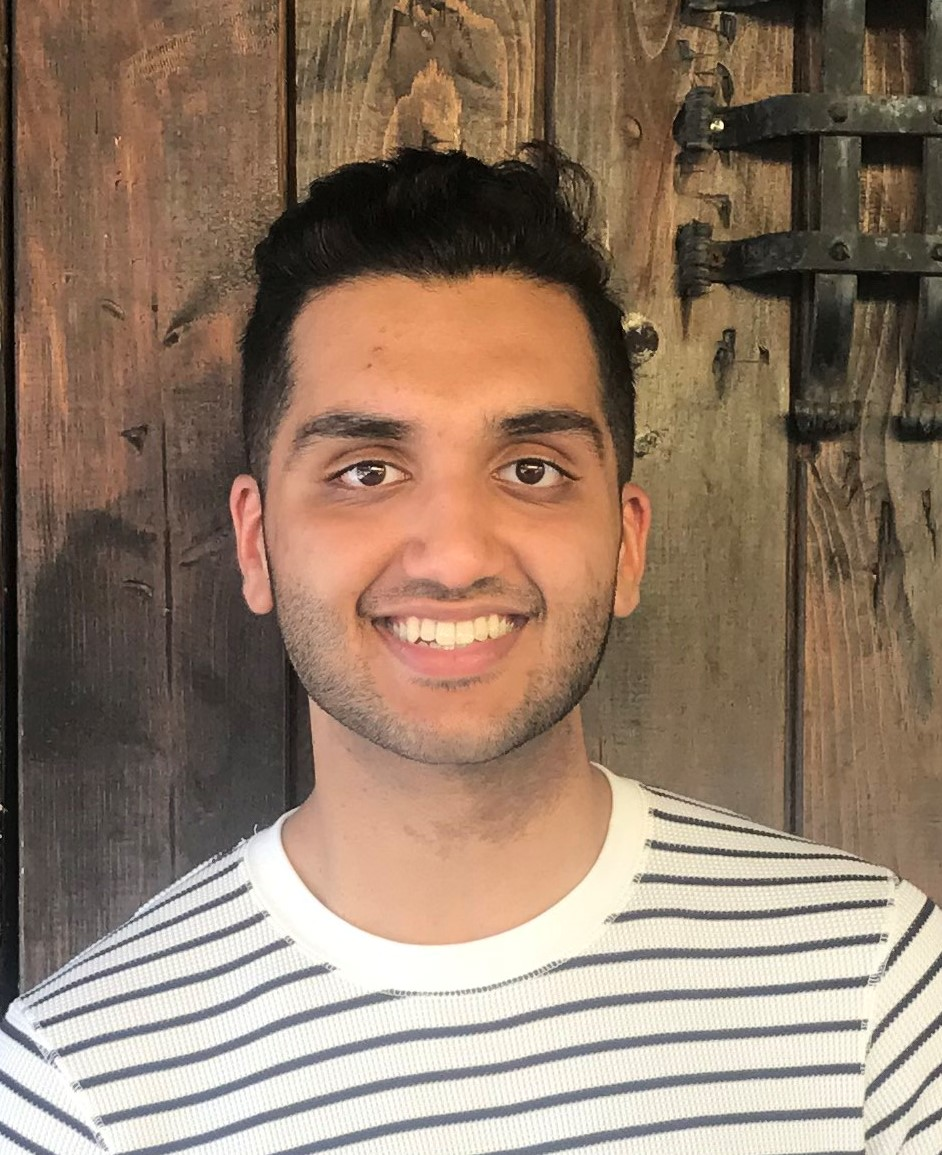
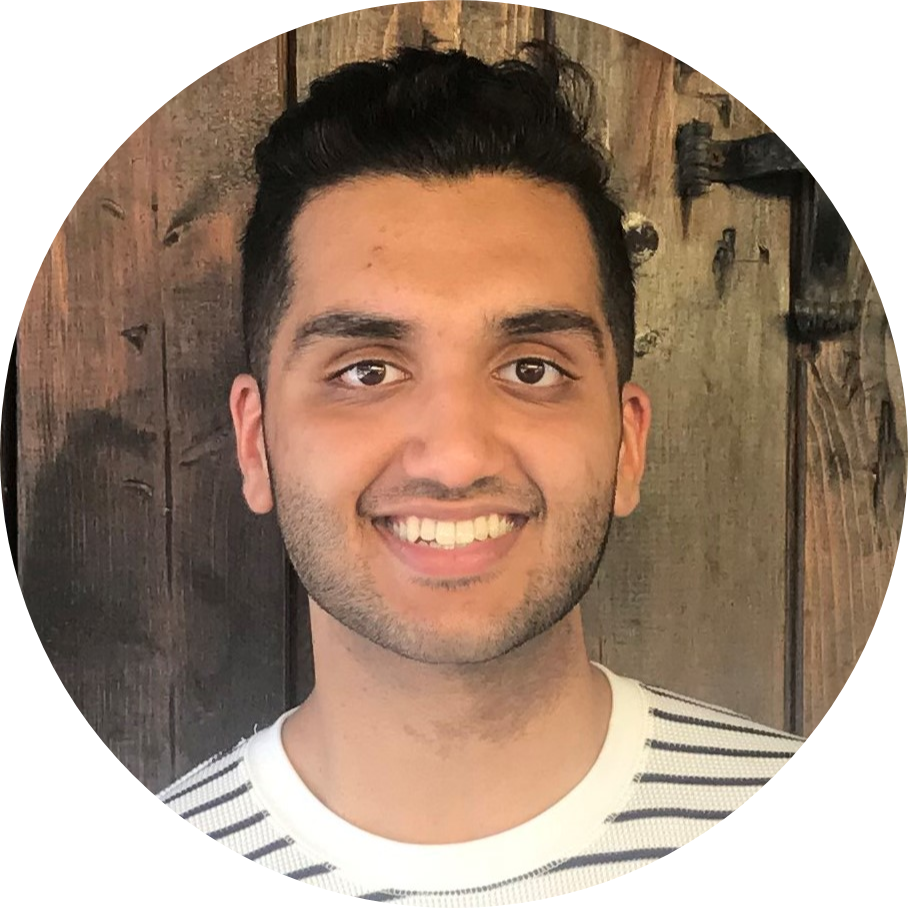
organize cards under src/views/cards

diff --git a/src/views/cards/EducationCard.jsx b/src/views/cards/EducationCard.jsx
@@ -1,7 +1,7 @@
 import React from 'react';
 import { createUseStyles } from 'react-jss'
 import classNames from 'classnames'
-import Experience from './Experience'
+import Education from '../Education'
 
 const useStyles = createUseStyles({
   cardContainer: {
@@ -10,7 +10,7 @@ const useStyles = createUseStyles({
     justifyContent: 'center',
     alignItems: 'center',
     width: '100%',
-    backgroundColor: '#BBBBBB',
+    backgroundColor: '#CC767A',
   },
   contentContainer: {
     display: 'flex',
@@ -48,16 +48,16 @@ const useStyles = createUseStyles({
     backgroundColor: '#333333',
   },
   darkModeBackground: {
-    backgroundColor: '#333333',
+    backgroundColor: '#000000',
   },
   darkModeText: {
     color: '#CCCCCC',
   },
   darkModeHline: {
-    backgroundColor: '#000000',
+    backgroundColor: '#333333',
   },
   lightModeBackground: {
-    backgroundColor: '#FFFFFF',
+    backgroundColor: '#C6C6C6',
   },
   lightModeText: {
     color: '#333333',
@@ -68,22 +68,23 @@ const useStyles = createUseStyles({
 });
 
 
-function ExperienceCard(props) {
+function EducationCard(props) {
   const { darkMode, lightMode } = props;
 
   const classes = useStyles();
 
-  const googleBullets = ['Core Team'];
-  const googleSkills = ['Coming', 'Soon'];
-
-  const amazonBullets = ['Team Placement TBD'];
-  const amazonSkills = ['Coming', 'Soon'];
-
-  const honeyBullets = ['Droplist Team'];
-  const honeySkills = ['Javascript', 'React', 'Node.js', 'Google Cloud Platform', 'Kubernetes', 'Docker', 'CircleCI', 'GraphQL', 'BigQuery', 'BigTable', 'Sendgrid'];
-
-  const dsgBullets = ['Checkout Team'];
-  const dsgSkills = ['Java', 'TypeScript', 'Angular', 'Spring Boot', 'Postman', 'REST APIs', 'JIRA', 'Redis', 'Agile', 'Pivitol Cloud Foundry'];
+  const rutgersCoursework = [
+    'Data Structures and Algorithms',
+    'Databases and Info Management',
+    'Design and Analysis of Algorithms',
+    'Computer Architecture',
+    'Linear Algebra',
+    'Mathematical Theory of Probability',
+    'Elementary Differential Equations',
+    'Multivariable Calculus',
+    'Discrete Structures',
+  ];
+  const rutgersSkills = ['Java', 'C', 'SQL', 'Maple'];
 
   const spacingBetweenExperience = (
     <React.Fragment>
@@ -97,52 +98,17 @@ function ExperienceCard(props) {
       <div className={ classes.spacingContainerTopBottom } />
       <div className={ classes.contentContainer }>
         <div className={ classNames(classes.textTitle, darkMode ? classes.darkModeText : null, lightMode ? classes.lightModeText : null) }>
-          Experience
+          Education
         </div>
       </div>
-{ /*
+
       { spacingBetweenExperience }
-        <Experience
-          companyName='Google'
-          startDate='April 2020'
-          endDate='June 2020'
-          location='Sunnyvale, CA'
-          bullets={ googleBullets }
-          skills={ googleSkills }
-          darkMode={ darkMode }
-          lightMode={ lightMode }
-        />
-        { spacingBetweenExperience }
-        <Experience
-          companyName='Amazon'
-          startDate='June 2020'
-          endDate='September 2020'
-          location='Seattle, WA'
-          bullets={ amazonBullets }
-          skills={ amazonSkills }
-          darkMode={ darkMode }
-          lightMode={ lightMode }
-        />
-*/}
-        { spacingBetweenExperience }
-        <Experience
-          companyName='Honey'
-          startDate='January 2020'
-          endDate='April 2020'
-          location='Los Angeles, CA'
-          bullets={ honeyBullets }
-          skills={ honeySkills }
-          darkMode={ darkMode }
-          lightMode={ lightMode }
-        />
-        { spacingBetweenExperience }
-        <Experience
-          companyName='DICK&apos;S Sporting Goods'
-          startDate='May 2019'
-          endDate='August 2019'
-          location='Pittsburgh, PA'
-          bullets={ dsgBullets }
-          skills={ dsgSkills }
+        <Education
+          schoolName='Rutgers University'
+          graduationDate='May 2021'
+          location='New Brunswick, NJ'
+          bullets={ rutgersCoursework }
+          skills={ rutgersSkills }
           darkMode={ darkMode }
           lightMode={ lightMode }
         />
@@ -153,4 +119,4 @@ function ExperienceCard(props) {
   );
 }
 
-export default ExperienceCard;
+export default EducationCard;

diff --git a/src/views/cards/ExperienceCard.jsx b/src/views/cards/ExperienceCard.jsx
@@ -1,7 +1,7 @@
 import React from 'react';
 import { createUseStyles } from 'react-jss'
 import classNames from 'classnames'
-import Education from './Education'
+import Experience from '../Experience'
 
 const useStyles = createUseStyles({
   cardContainer: {
@@ -10,7 +10,7 @@ const useStyles = createUseStyles({
     justifyContent: 'center',
     alignItems: 'center',
     width: '100%',
-    backgroundColor: '#CC767A',
+    backgroundColor: '#BBBBBB',
   },
   contentContainer: {
     display: 'flex',
@@ -48,16 +48,16 @@ const useStyles = createUseStyles({
     backgroundColor: '#333333',
   },
   darkModeBackground: {
-    backgroundColor: '#000000',
+    backgroundColor: '#333333',
   },
   darkModeText: {
     color: '#CCCCCC',
   },
   darkModeHline: {
-    backgroundColor: '#333333',
+    backgroundColor: '#000000',
   },
   lightModeBackground: {
-    backgroundColor: '#C6C6C6',
+    backgroundColor: '#FFFFFF',
   },
   lightModeText: {
     color: '#333333',
@@ -68,23 +68,22 @@ const useStyles = createUseStyles({
 });
 
 
-function EducationCard(props) {
+function ExperienceCard(props) {
   const { darkMode, lightMode } = props;
 
   const classes = useStyles();
 
-  const rutgersCoursework = [
-    'Data Structures and Algorithms',
-    'Databases and Info Management',
-    'Design and Analysis of Algorithms',
-    'Computer Architecture',
-    'Linear Algebra',
-    'Mathematical Theory of Probability',
-    'Elementary Differential Equations',
-    'Multivariable Calculus',
-    'Discrete Structures',
-  ];
-  const rutgersSkills = ['Java', 'C', 'SQL', 'Maple'];
+  const googleBullets = ['Core Team'];
+  const googleSkills = ['Coming', 'Soon'];
+
+  const amazonBullets = ['Team Placement TBD'];
+  const amazonSkills = ['Coming', 'Soon'];
+
+  const honeyBullets = ['Droplist Team'];
+  const honeySkills = ['Javascript', 'React', 'Node.js', 'Google Cloud Platform', 'Kubernetes', 'Docker', 'CircleCI', 'GraphQL', 'BigQuery', 'BigTable', 'Sendgrid'];
+
+  const dsgBullets = ['Checkout Team'];
+  const dsgSkills = ['Java', 'TypeScript', 'Angular', 'Spring Boot', 'Postman', 'REST APIs', 'JIRA', 'Redis', 'Agile', 'Pivitol Cloud Foundry'];
 
   const spacingBetweenExperience = (
     <React.Fragment>
@@ -98,17 +97,52 @@ function EducationCard(props) {
       <div className={ classes.spacingContainerTopBottom } />
       <div className={ classes.contentContainer }>
         <div className={ classNames(classes.textTitle, darkMode ? classes.darkModeText : null, lightMode ? classes.lightModeText : null) }>
-          Education
+          Experience
         </div>
       </div>
-
+{ /*
       { spacingBetweenExperience }
-        <Education
-          schoolName='Rutgers University'
-          graduationDate='May 2021'
-          location='New Brunswick, NJ'
-          bullets={ rutgersCoursework }
-          skills={ rutgersSkills }
+        <Experience
+          companyName='Google'
+          startDate='April 2020'
+          endDate='June 2020'
+          location='Sunnyvale, CA'
+          bullets={ googleBullets }
+          skills={ googleSkills }
+          darkMode={ darkMode }
+          lightMode={ lightMode }
+        />
+        { spacingBetweenExperience }
+        <Experience
+          companyName='Amazon'
+          startDate='June 2020'
+          endDate='September 2020'
+          location='Seattle, WA'
+          bullets={ amazonBullets }
+          skills={ amazonSkills }
+          darkMode={ darkMode }
+          lightMode={ lightMode }
+        />
+*/}
+        { spacingBetweenExperience }
+        <Experience
+          companyName='Honey'
+          startDate='January 2020'
+          endDate='April 2020'
+          location='Los Angeles, CA'
+          bullets={ honeyBullets }
+          skills={ honeySkills }
+          darkMode={ darkMode }
+          lightMode={ lightMode }
+        />
+        { spacingBetweenExperience }
+        <Experience
+          companyName='DICK&apos;S Sporting Goods'
+          startDate='May 2019'
+          endDate='August 2019'
+          location='Pittsburgh, PA'
+          bullets={ dsgBullets }
+          skills={ dsgSkills }
           darkMode={ darkMode }
           lightMode={ lightMode }
         />
@@ -119,4 +153,4 @@ function EducationCard(props) {
   );
 }
 
-export default EducationCard;
+export default ExperienceCard;

diff --git a/src/views/Home.jsx b/src/views/Home.jsx
@@ -1,8 +1,8 @@
 import React from 'react';
-import BioCard from './BioCard';
-import InformationCard from './InformationCard'
-import ExperienceCard from './ExperienceCard'
-import EducationCard from './EducationCard'
+import BioCard from './cards/BioCard';
+import InformationCard from './cards/InformationCard'
+import ExperienceCard from './cards/ExperienceCard'
+import EducationCard from './cards/EducationCard'
 import Header from '../Runnings/Header'
 import Footer from '../Runnings/Footer'
 import { DarkMode } from '../store'

diff --git a/src/views/cards/BioCard.jsx b/src/views/cards/BioCard.jsx
@@ -2,8 +2,8 @@ import React from 'react';
 import { createUseStyles } from 'react-jss'
 import classNames from 'classnames'
 import FadeIn from 'react-fade-in'
-import me from '../images/mee.png'
-import './styles/scrollDownIndicator.css';
+import me from '../../images/me.png'
+import '../styles/scrollDownIndicator.css';
 
 const useStyles = createUseStyles({
   cardContainer: {

diff --git a/src/views/cards/InformationCard.jsx b/src/views/cards/InformationCard.jsx
@@ -1,7 +1,7 @@
 import React from 'react';
 import { createUseStyles } from 'react-jss'
 import classNames from 'classnames'
-import InformationTerminal from './InformationTerminal'
+import InformationTerminal from '../InformationTerminal'
 
 const useStyles = createUseStyles({
   cardContainer: {
